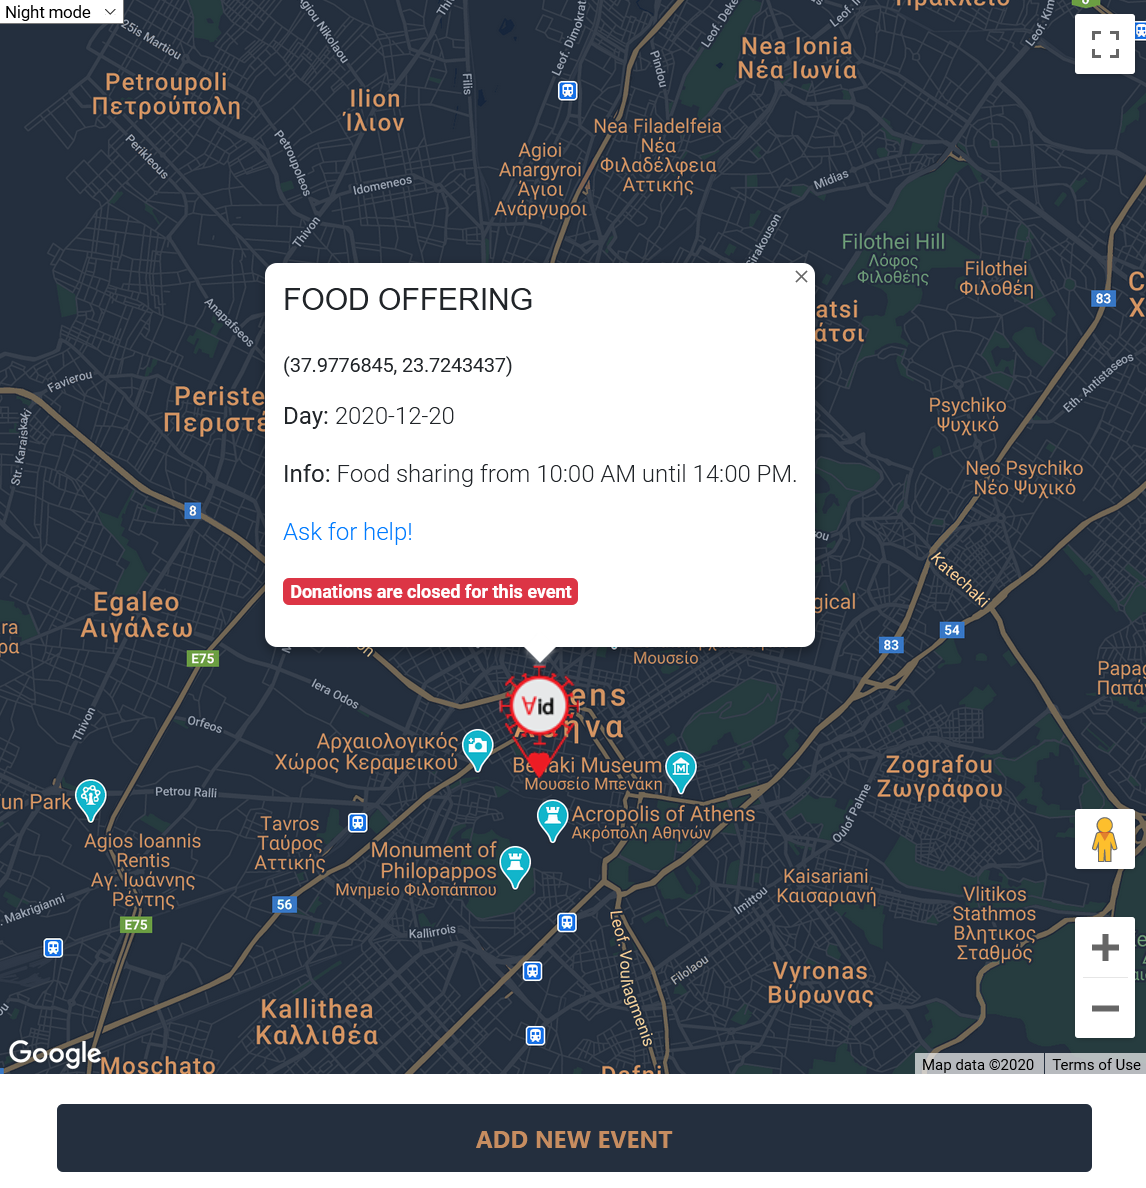
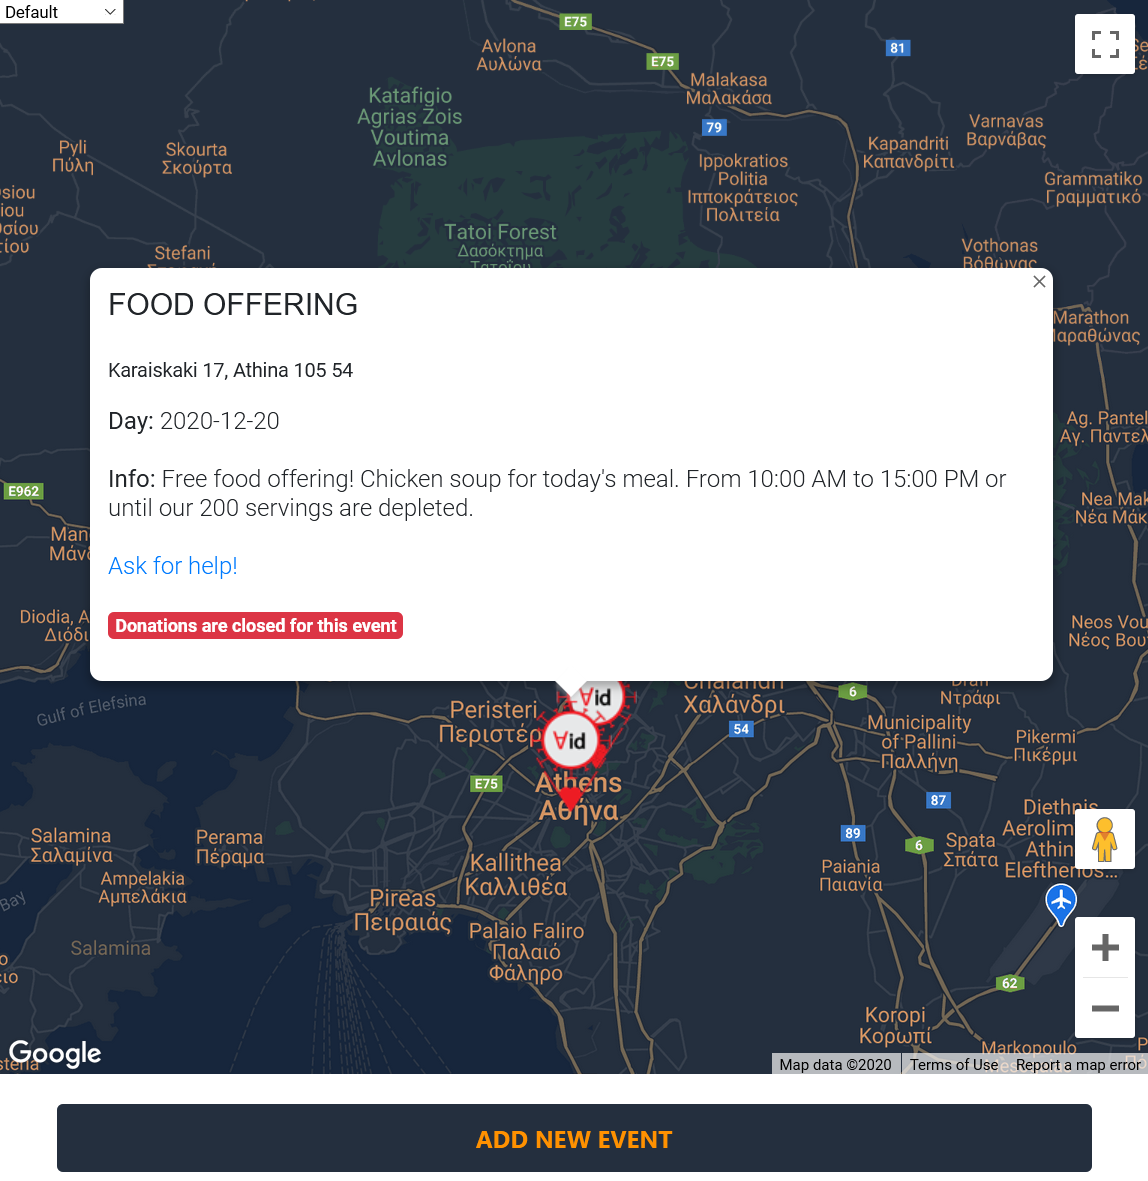
info address fixed

diff --git a/js/scripts.js b/js/scripts.js
@@ -262,6 +262,7 @@ function addMarker(coords) {
 
   //fill the info window from user input (add event modal)
   var eventName = document.getElementById("eventName").value;
+  var eventAddress = document.getElementById("eventAddress").value;
   var eventDate = document.getElementById("eventDate").value;
   var eventDescription = document.getElementById("eventDescription").value;
   var contentInfo = '';
@@ -274,7 +275,7 @@ function addMarker(coords) {
   });
 
   contentInfo = "<h5>" + eventName + "</h5><br>" +
-    "<div><strong>" + marker.getPosition() + "</strong></div><br>" +
+    "<div><strong>" + eventAddress + "</strong></div><br>" +
     "<div style='font-size:16px'><strong>Day: </strong>" + eventDate + "<div><br>" +
     "<div style='font-size:16px'><strong>Info: </strong>" + eventDescription + "<div><br>" +
     "<a href='./contactus.html' target='_blank' style='font-size:16px'>Ask for help!</a><br><br>" +
